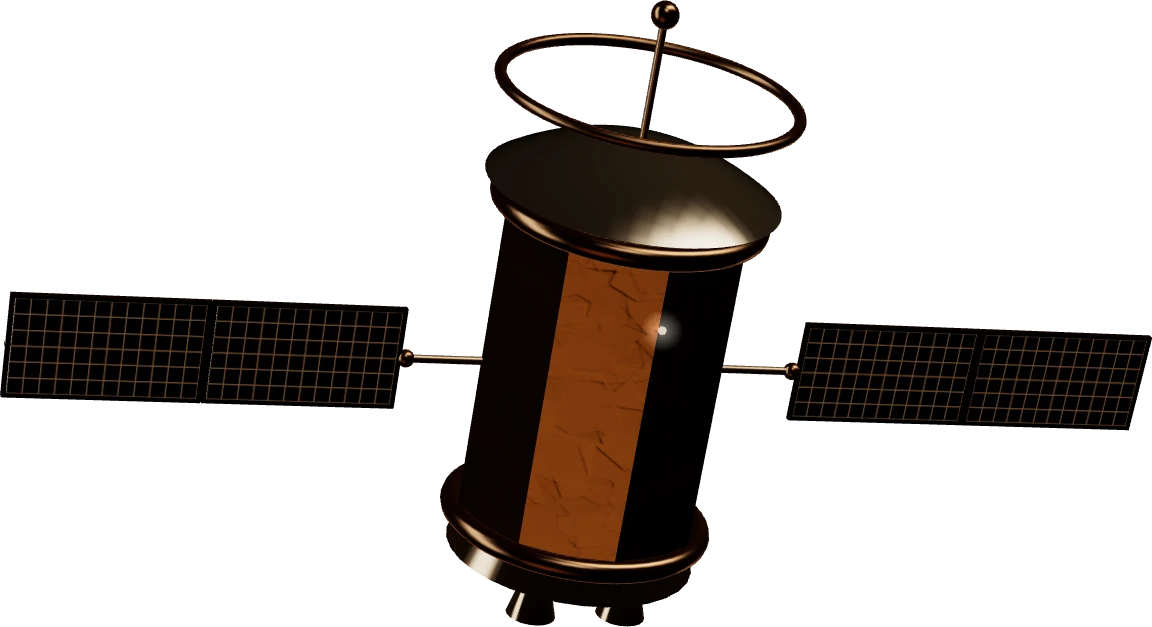
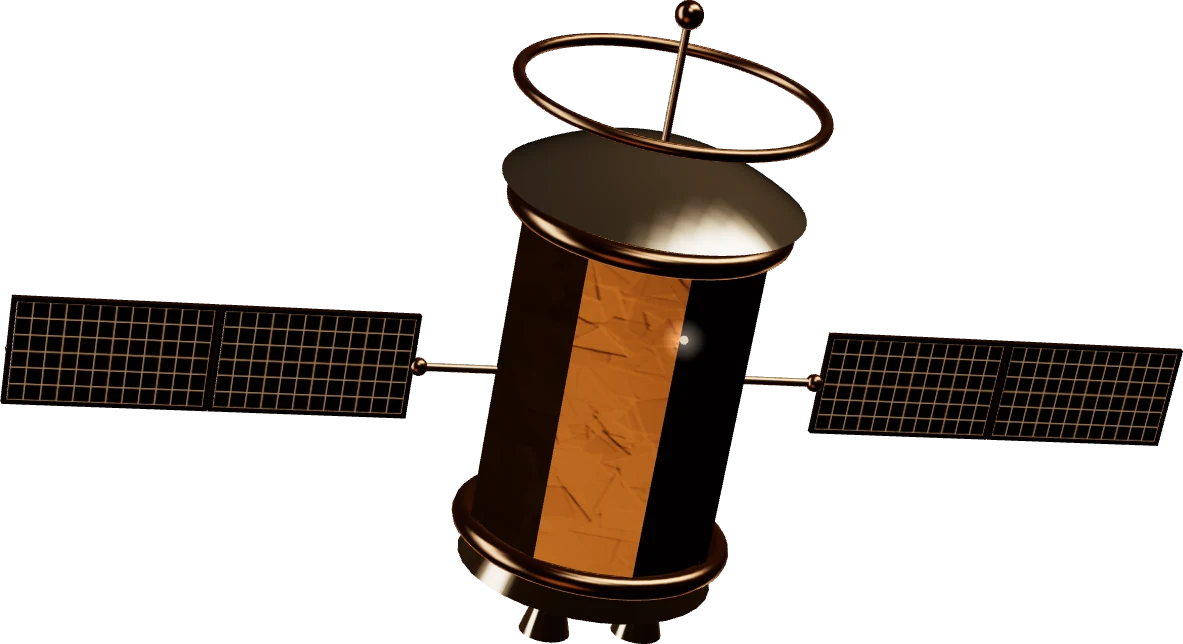
Monument v9: nearest pass moved to ~5s after reveal (?sat=6) so a normal load opens with a smaller satellite that grows into the near pass; sat.webp re-rendered at that pose

diff --git a/monument/index.html b/monument/index.html
@@ -39,7 +39,7 @@ span.bronze,h2.bronze,.tl.bronze{padding:0 .1em;margin:0 -.1em}
 @media (min-aspect-ratio:4/5){#statue{height:66vh;top:46.6%}.ringsfb .mb{display:none}.ringsfb .dk{display:inline}}
 html.gl-on .ringsfb{display:none}
 html.gl-fig #statue{opacity:0}
-#satfb{--sx:-0.0555;--sy:-0.5904;--sw:0.5;--dx:-0.7618;--dy:0.0139;--dw:0.46;position:fixed;z-index:2;pointer-events:none;height:auto;left:calc(50% + var(--sx)*45.6svh);top:calc(52% + var(--sy)*45.6svh);width:calc(var(--sw)*45.6svh);transform:translate(-52.27%,-58.21%);filter:drop-shadow(0 0 18px rgba(214,172,131,.18))}
+#satfb{--sx:-0.0555;--sy:-0.5904;--sw:0.5;--dx:-0.7618;--dy:0.0139;--dw:0.46;position:fixed;z-index:2;pointer-events:none;height:auto;left:calc(50% + var(--sx)*45.6svh);top:calc(52% + var(--sy)*45.6svh);width:calc(var(--sw)*45.6svh);transform:translate(-52.43%,-58.23%);filter:drop-shadow(0 0 18px rgba(214,172,131,.18))}
 @media (min-aspect-ratio:4/5){#satfb{left:calc(50% + var(--dx)*66vh);top:calc(46.6% + var(--dy)*66vh);width:calc(var(--dw)*66vh)}}
 html.gl-sat #satfb,html.satshot #satfb,html.dbgmag #satfb{display:none}
 html.satshot body,html.satshot{background:transparent!important}html.satshot body>*:not(#gl){visibility:hidden!important}html.satshot #gl{visibility:visible!important}
@@ -465,7 +465,7 @@ const bgS=new THREE.Scene();bgS.add(bgQ);const bgCam=new THREE.Camera();
 /* figure: relit bronze cutout with normal-from-luminance shading (light follows touch/tilt) */
 const tl=new THREE.TextureLoader();
 let figReady=false,figOK=false,glOn=false,satOK=false;const domFig=document.getElementById('statue'),domSat=document.getElementById('satfb');
-const SFB={ox:.5227,oy:.3168}; /* origin of the 3D satellite inside sat.webp, as a fraction of image width */
+const SFB={ox:.5243,oy:.3170}; /* origin of the 3D satellite inside sat.webp, as a fraction of image width */
 const figTex=tl.load('statue.webp',t=>{t.colorSpace=THREE.NoColorSpace;t.needsUpdate=true;figReady=true});
 figTex.anisotropy=R.capabilities.getMaxAnisotropy();
 const FH=3.45,FW=FH*1344/2087;
@@ -553,7 +553,7 @@ const glowTex=new THREE.CanvasTexture(gcv);
 function beacon(col,pos,size){const g=new THREE.Group();g.add(new THREE.Mesh(new THREE.SphereGeometry(.012,20,14),new THREE.MeshBasicMaterial({color:col})));
  const sp=new THREE.Sprite(new THREE.SpriteMaterial({map:glowTex,color:col,blending:THREE.AdditiveBlending,depthWrite:false,transparent:true}));sp.scale.setScalar(size);g.add(sp);g.position.set(...pos);sat.add(g);return g}
 const blink=beacon(0xff5a3c,[0,.14,-.1],.16),blink2=beacon(0xEBCAA4,[0,-.14,.1],.12);beacon(0xffffff,[.06,.28,-.05],.1);
-const QS=new URLSearchParams(location.search),SATT=QS.has('sat')?+QS.get('sat'):null; /* ?sat=<s> freezes the satellite at orbit time s (nearest pass at s=4) */
+const QS=new URLSearchParams(location.search),SATT=QS.has('sat')?+QS.get('sat'):null; /* ?sat=<s> freezes the satellite at orbit time s (nearest pass at s=6) */
 const SHOT=QS.has('satshot');const satMats=[foil,silver,bronzeTrim,dish.material];
 /* specular glint riding the dish rim */
 const glint=new THREE.Sprite(new THREE.SpriteMaterial({map:glowTex,color:0xFEF4E2,blending:THREE.AdditiveBlending,depthWrite:false,transparent:true,opacity:0}));glint.position.set(.12,.0,.52);sat.add(glint);
@@ -563,7 +563,7 @@ const glint=new THREE.Sprite(new THREE.SpriteMaterial({map:glowTex,color:0xFEF4E
    behind the stiff-arm and torso on the far side and is depth-occluded by the statue there. */
 const SP={m:{cx:-.105,cy:-.37,ax:.0495,ay:-.2204,bx:.13,by:0,w:.5,lo:.5,p:5,fr:.3,zs:.25},
           d:{cx:-.3162,cy:-.0269,ax:-.4456,ay:.0408,bx:.0509,by:-.0986,w:.46,lo:.5,p:3,fr:.55,zs:0}};
-const SAT_W=2.351,SAT_T0=4,SAT_OM=2*Math.PI/32,SAT_Z=2.2;
+const SAT_W=2.351,SAT_T0=6,SAT_OM=2*Math.PI/32,SAT_Z=2.2;
 const heroCam=new THREE.PerspectiveCamera(35,1,.1,400),hb={x:0,y:0,h:1},sv=new THREE.Vector3(),sd=new THREE.Vector3(),sf=new THREE.Vector3();
 const satS={X:0,Y:0,w:0,z:0,nr:1};
 function satFit(){const k=K()[0];heroCam.aspect=innerWidth/innerHeight;heroCam.position.set(...k[0]);heroCam.lookAt(...k[1]);heroCam.updateProjectionMatrix();heroCam.updateMatrixWorld(true);
